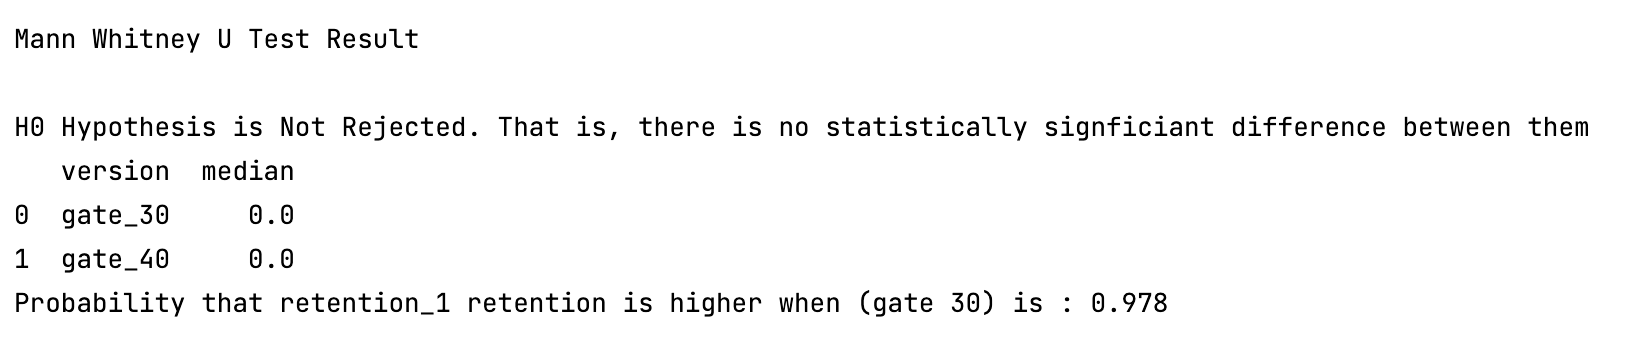
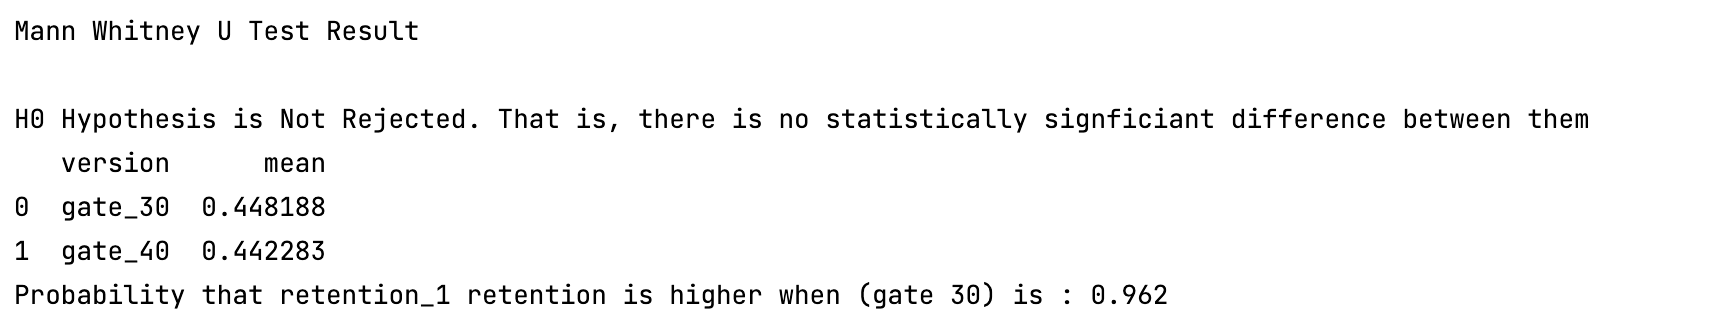
Update main File, Output and README.md

Changed region(s): [[0.0, 0.4321, 0.7362, 0.9568], [0.0, 0.3086, 0.9816, 0.4012], [0.0, 0.0617, 0.2761, 0.1543]]

diff --git a/main.py b/main.py
@@ -131,7 +131,7 @@ def AB_test(df, target = 'retention_1'):
         print("H0 Hypothesis is Not Rejected. That is, there is no statistically signficiant difference between them")
 
     # Method 2
-    version_df = df.groupby('version')['retention_1'].agg(['median']).reset_index()
+    version_df = df.groupby('version')['retention_1'].agg(['mean']).reset_index()
     print(version_df.head())
     # It comes up with mean difference between two version
 

diff --git a/README.md b/README.md
@@ -26,9 +26,11 @@ In the dataset,
     If the result is lower than threshold (p-value), then H0 hypothesis will be rejected, in other word, there is a statistically signficiant difference between them.
 Else, there is no statistical difference between them.
 
-### Conclusion
+<img alt="Test Result"  src="output/Test Result.png" />
 
-<img alt="Test Result" height="400" src="output/Test Result.png.png" width="350"/>
+### Conclusion
+Becuase there is no significant difference, thus, there is no need to move from gate_30 to gate_40 by AB Test.
+
 
 ## Versioning
 
